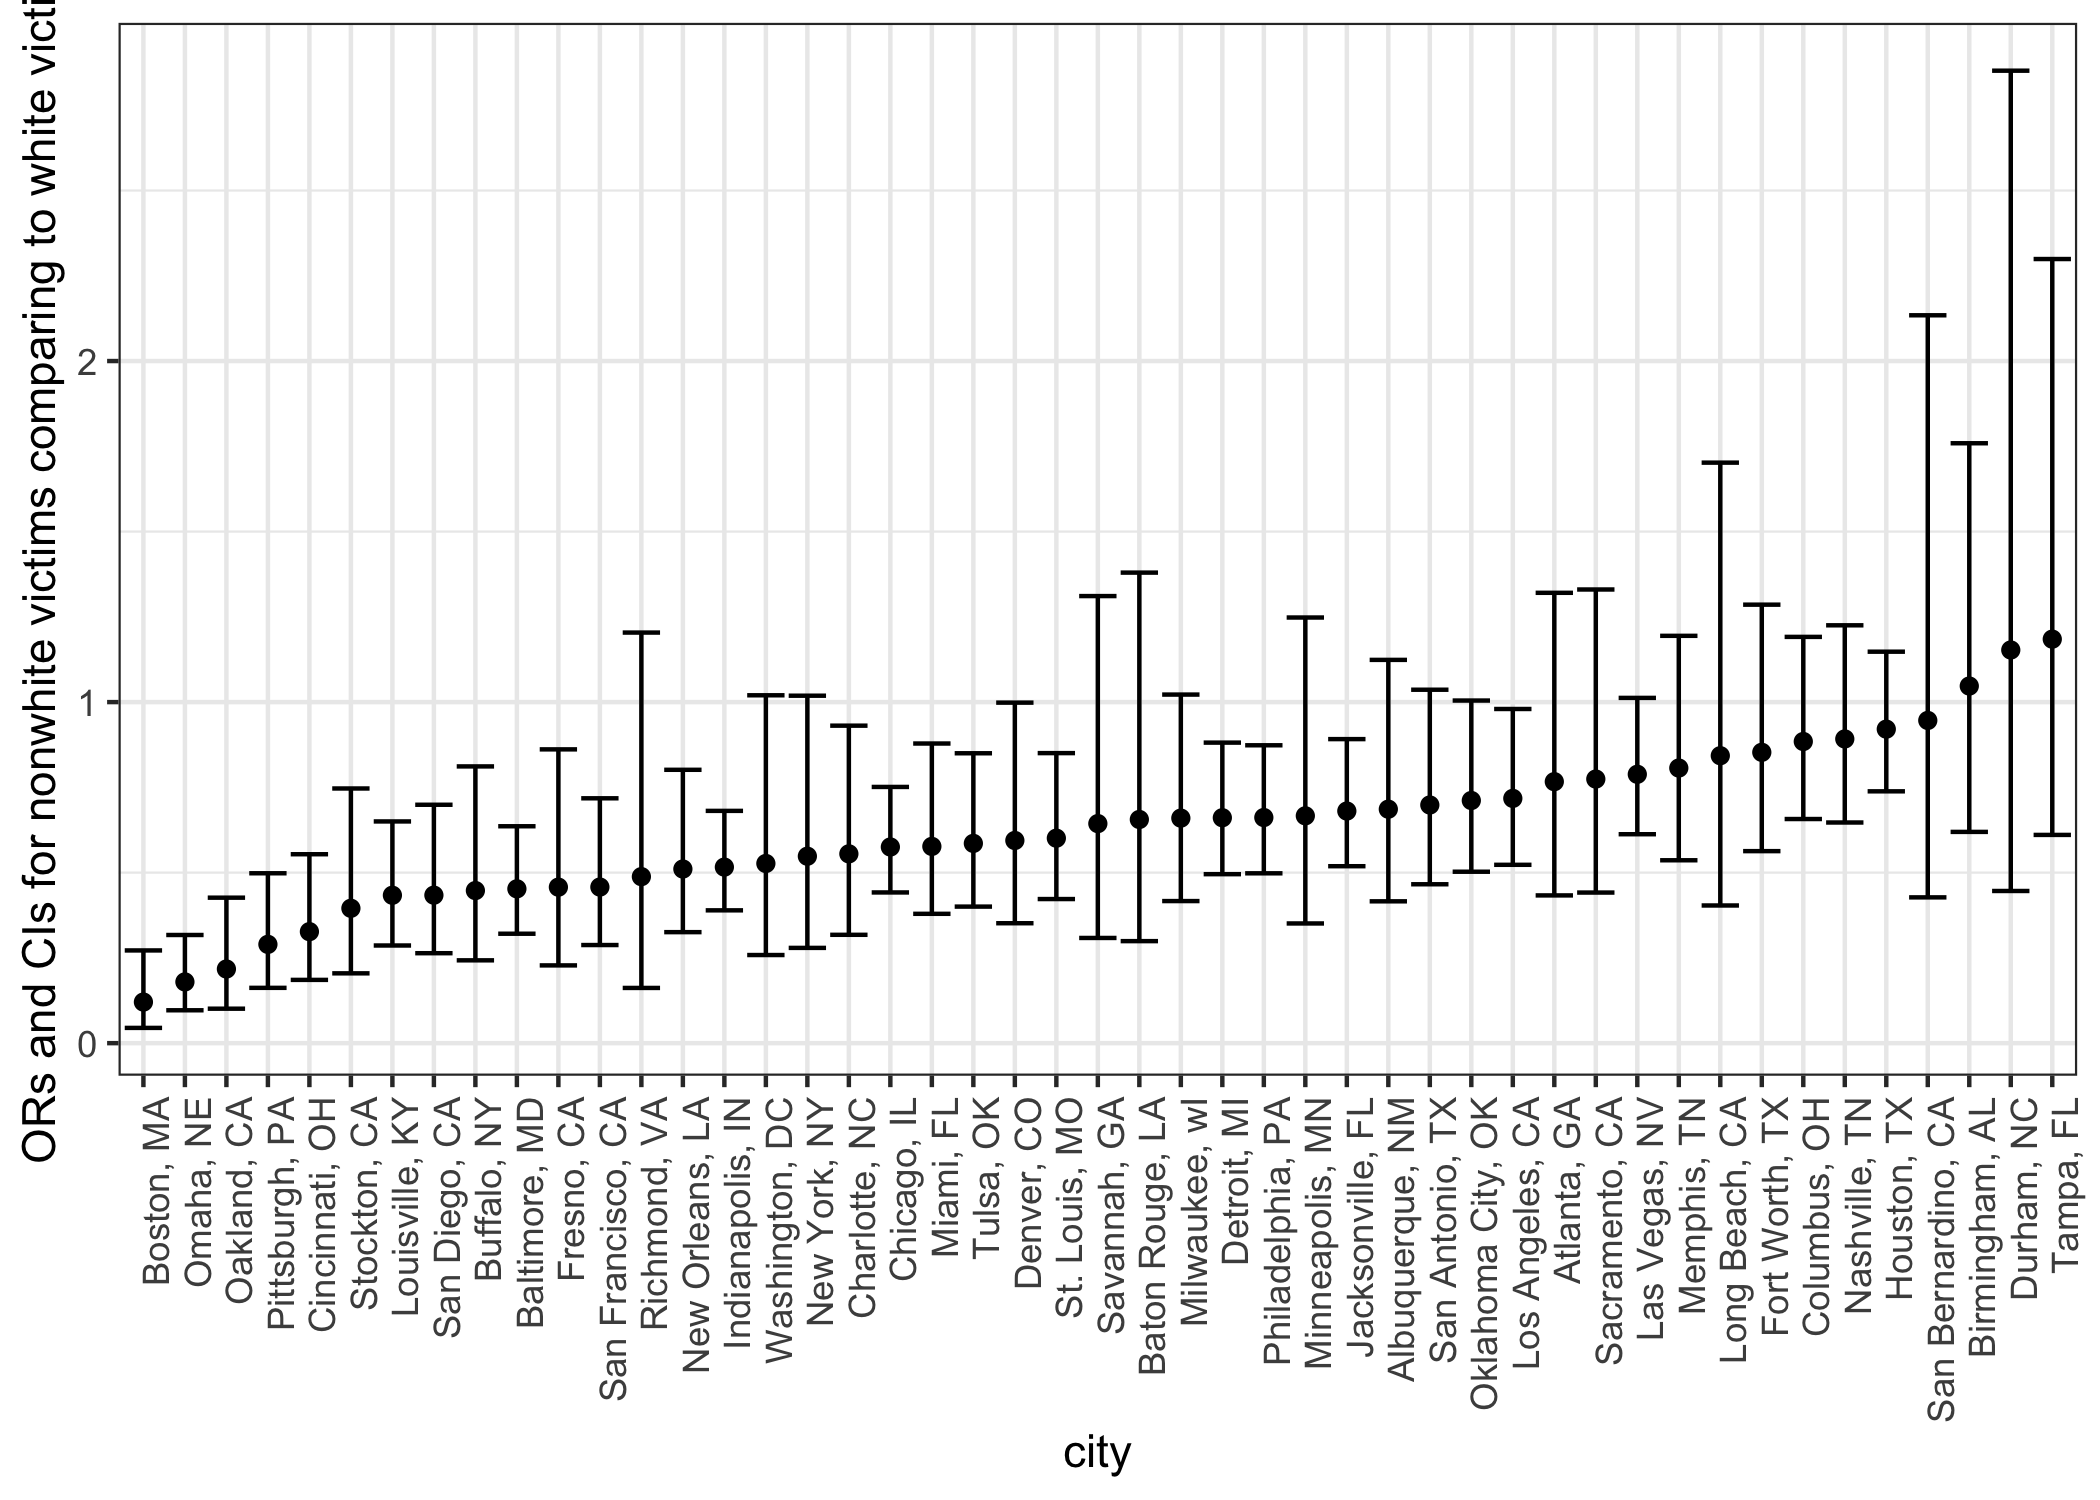
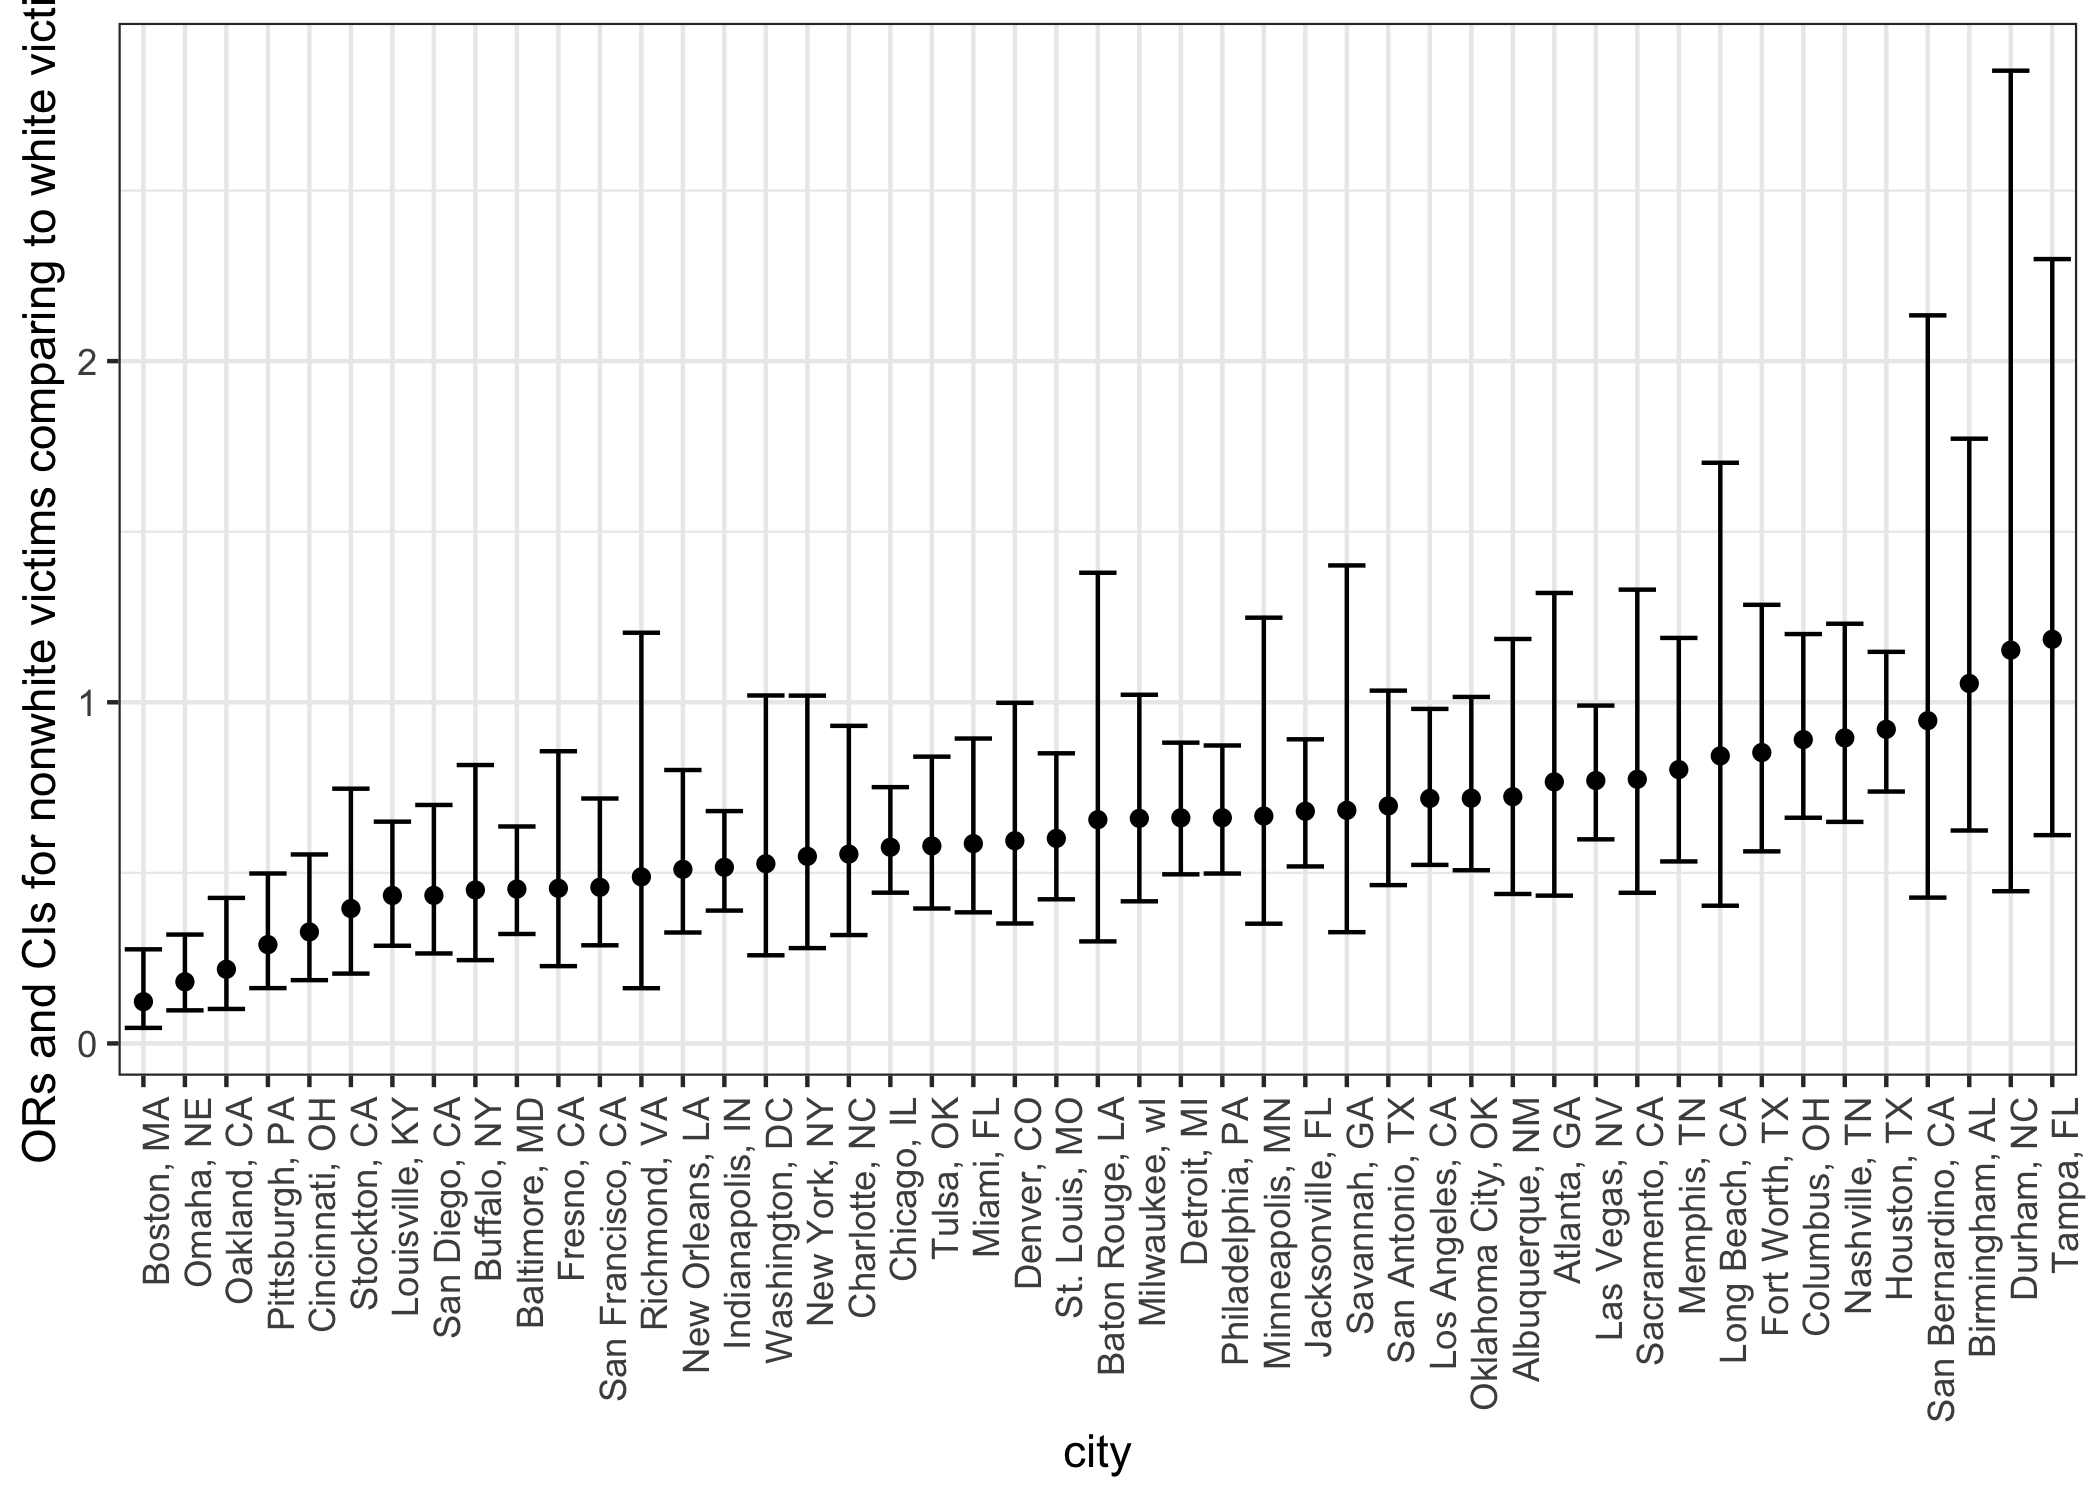
try to solve

diff --git a/p8105_hw6_gw2383.md b/p8105_hw6_gw2383.md
@@ -7,6 +7,9 @@ Guojing Wu
     -   [Tidy data](#tidy-data)
     -   [a logistic regression](#a-logistic-regression)
     -   [run `glm` for each of the cities](#run-glm-for-each-of-the-cities)
+-   [Problem 2](#problem-2)
+    -   [Load and clean the data](#load-and-clean-the-data)
+    -   [Propose a regression model for birthweight](#propose-a-regression-model-for-birthweight)
 
 Problem 1
 ---------
@@ -17,6 +20,7 @@ Problem 1
 homi_df = 
   read.csv("./data/problem1/homicide-data.csv") %>% 
   janitor::clean_names() %>% 
+  filter(victim_race != "Unknown") %>% # delete unknown races
   mutate(city_state = paste(city, state, sep = ", "), 
          solved = ifelse(disposition == "Closed by arrest", 1, 0), # a binary indicator
          victim_race = ifelse(victim_race == "White", "White", "Nonwhite"), 
@@ -46,8 +50,8 @@ fit_logistic %>%
 
 | term                 |         OR|   conf.low|  conf.high|  p.value|
 |:---------------------|----------:|----------:|----------:|--------:|
-| (Intercept)          |  2.2589119|  2.0901172|  2.4419631|        0|
-| victim\_raceNonwhite |  0.5816197|  0.5498223|  0.6151536|        0|
+| (Intercept)          |  2.2088105|  2.0425960|  2.3891523|        0|
+| victim\_raceNonwhite |  0.5848341|  0.5528333|  0.6185851|        0|
 
 ### run `glm` for each of the cities
 
@@ -73,16 +77,16 @@ nest_glm_res
     ## # A tibble: 94 x 6
     ##    city_state      term                   OR conf.low conf.high    p.value
     ##    <chr>           <chr>               <dbl>    <dbl>     <dbl>      <dbl>
-    ##  1 Albuquerque, NM (Intercept)         4.35     2.27      8.57  0.0000134 
-    ##  2 Albuquerque, NM victim_raceNonwhite 0.686    0.416     1.12  0.137     
+    ##  1 Albuquerque, NM (Intercept)         2.88     1.41      6.05  0.00434   
+    ##  2 Albuquerque, NM victim_raceNonwhite 0.723    0.438     1.19  0.201     
     ##  3 Atlanta, GA     (Intercept)         2.89     1.47      5.81  0.00236   
     ##  4 Atlanta, GA     victim_raceNonwhite 0.767    0.433     1.32  0.348     
     ##  5 Baltimore, MD   (Intercept)         2.85     1.84      4.47  0.00000378
     ##  6 Baltimore, MD   victim_raceNonwhite 0.453    0.321     0.636 0.00000533
     ##  7 Baton Rouge, LA (Intercept)         4.39     1.73     11.9   0.00252   
     ##  8 Baton Rouge, LA victim_raceNonwhite 0.656    0.299     1.38  0.275     
-    ##  9 Birmingham, AL  (Intercept)         1.85     0.941     3.66  0.0762    
-    ## 10 Birmingham, AL  victim_raceNonwhite 1.05     0.619     1.76  0.862     
+    ##  9 Birmingham, AL  (Intercept)         1.80     0.917     3.58  0.0891    
+    ## 10 Birmingham, AL  victim_raceNonwhite 1.06     0.624     1.77  0.840     
     ## # ... with 84 more rows
 
 Then create a plot that shows the estimated ORs and CIs for each city, and comment on the plot.
@@ -101,3 +105,130 @@ nest_glm_res %>%
 ![](p8105_hw6_gw2383_files/figure-markdown_github/unnamed-chunk-4-1.png)
 
 According to this plot, we can see that across every cities, non white victims tend to have more unsolved homicides comparing to white victims (with `Boston, MA` has the least extra unsolved and `Tampa, FL` has the most extra unsolved).
+
+Problem 2
+---------
+
+### Load and clean the data
+
+``` r
+bw_df = 
+  read.csv("./data/problem2/birthweight.csv") %>% 
+  as.tibble() %>% 
+  janitor::clean_names() %>% 
+  select(bwt, everything())
+```
+
+-   We first checked if there is `NA` in this dataset, and found out that there are 0 `NA`s.
+
+-   Second we check the collinearity:
+
+``` r
+bw_df %>% 
+  cor() %>% 
+  knitr::kable()
+```
+
+|          |         bwt|     babysex|       bhead|     blength|       delwt|     fincome|       frace|     gaweeks|     malform|    menarche|     mheight|      momage|       mrace|      parity|  pnumlbw|  pnumsga|       ppbmi|        ppwt|      smoken|      wtgain|
+|----------|-----------:|-----------:|-----------:|-----------:|-----------:|-----------:|-----------:|-----------:|-----------:|-----------:|-----------:|-----------:|-----------:|-----------:|--------:|--------:|-----------:|-----------:|-----------:|-----------:|
+| bwt      |   1.0000000|  -0.0866418|   0.7471068|   0.7434508|   0.2878893|   0.1545715|  -0.1793900|   0.4121833|   0.0013332|  -0.0244247|   0.1921632|   0.1357734|  -0.2076689|  -0.0083741|       NA|       NA|   0.0939457|   0.1828920|  -0.0756278|   0.2472526|
+| babysex  |  -0.0866418|   1.0000000|  -0.1688005|  -0.1052882|  -0.0164194|  -0.0226430|   0.0309277|   0.0202404|  -0.0180325|  -0.0062865|   0.0077359|  -0.0371782|   0.0360213|   0.0229980|       NA|       NA|  -0.0069938|  -0.0010070|  -0.0277543|  -0.0314619|
+| bhead    |   0.7471068|  -0.1688005|   1.0000000|   0.6304548|   0.2143707|   0.1156991|  -0.0960801|   0.3784565|   0.0029970|  -0.0030161|   0.1169482|   0.1080813|  -0.1101420|  -0.0200395|       NA|       NA|   0.0865565|   0.1366088|  -0.0539472|   0.1833337|
+| blength  |   0.7434508|  -0.1052882|   0.6304548|   1.0000000|   0.2291494|   0.0787451|  -0.1133571|   0.3592637|  -0.0090215|  -0.0210674|   0.1602598|   0.0801603|  -0.1324835|  -0.0324701|       NA|       NA|   0.0740158|   0.1486046|  -0.0656288|   0.1912238|
+| delwt    |   0.2878893|  -0.0164194|   0.2143707|   0.2291494|   1.0000000|   0.0349944|  -0.0648496|   0.1242785|   0.0120943|  -0.0859401|   0.4112576|   0.0740409|  -0.0922383|  -0.0047091|       NA|       NA|   0.7205041|   0.8709133|   0.0486127|   0.4247883|
+| fincome  |   0.1545715|  -0.0226430|   0.1156991|   0.0787451|   0.0349944|   1.0000000|  -0.2845921|   0.1066777|  -0.0068882|  -0.0035351|   0.1310186|   0.3231142|  -0.3048117|  -0.0259424|       NA|       NA|  -0.0201890|   0.0472526|   0.0779430|  -0.0160377|
+| frace    |  -0.1793900|   0.0309277|  -0.0960801|  -0.1133571|  -0.0648496|  -0.2845921|   1.0000000|  -0.1137273|  -0.0268645|   0.0212101|  -0.2008713|  -0.1869341|   0.8286055|   0.0011767|       NA|       NA|   0.0459474|  -0.0596140|  -0.1729336|  -0.0217712|
+| gaweeks  |   0.4121833|   0.0202404|   0.3784565|   0.3592637|   0.1242785|   0.1066777|  -0.1137273|   1.0000000|  -0.0050945|  -0.0004363|   0.0621377|   0.1139098|  -0.1315206|  -0.0796589|       NA|       NA|   0.0273359|   0.0564730|   0.0362117|   0.1481460|
+| malform  |   0.0013332|  -0.0180325|   0.0029970|  -0.0090215|   0.0120943|  -0.0068882|  -0.0268645|  -0.0050945|   1.0000000|  -0.0098673|  -0.0079746|   0.0177281|  -0.0276627|  -0.0013178|       NA|       NA|   0.0002545|  -0.0033799|   0.0331603|   0.0307670|
+| menarche |  -0.0244247|  -0.0062865|  -0.0030161|  -0.0210674|  -0.0859401|  -0.0035351|   0.0212101|  -0.0004363|  -0.0098673|   1.0000000|   0.0741156|   0.1760380|   0.0134218|   0.0194762|       NA|       NA|  -0.1218261|  -0.0704996|   0.0163746|  -0.0445137|
+| mheight  |   0.1921632|   0.0077359|   0.1169482|   0.1602598|   0.4112576|   0.1310186|  -0.2008713|   0.0621377|  -0.0079746|   0.0741156|   1.0000000|   0.1090480|  -0.2304254|  -0.0134237|       NA|       NA|  -0.1007377|   0.4266872|   0.0609835|   0.0484789|
+| momage   |   0.1357734|  -0.0371782|   0.1080813|   0.0801603|   0.0740409|   0.3231142|  -0.1869341|   0.1139098|   0.0177281|   0.1760380|   0.1090480|   1.0000000|  -0.2116000|   0.0519542|       NA|       NA|   0.0812451|   0.1295921|   0.0754544|  -0.0884876|
+| mrace    |  -0.2076689|   0.0360213|  -0.1101420|  -0.1324835|  -0.0922383|  -0.3048117|   0.8286055|  -0.1315206|  -0.0276627|   0.0134218|  -0.2304254|  -0.2116000|   1.0000000|   0.0021177|       NA|       NA|   0.0348432|  -0.0842482|  -0.1975179|  -0.0319667|
+| parity   |  -0.0083741|   0.0229980|  -0.0200395|  -0.0324701|  -0.0047091|  -0.0259424|   0.0011767|  -0.0796589|  -0.0013178|   0.0194762|  -0.0134237|   0.0519542|   0.0021177|   1.0000000|       NA|       NA|  -0.0059267|  -0.0112029|  -0.0055757|   0.0110819|
+| pnumlbw  |          NA|          NA|          NA|          NA|          NA|          NA|          NA|          NA|          NA|          NA|          NA|          NA|          NA|          NA|        1|       NA|          NA|          NA|          NA|          NA|
+| pnumsga  |          NA|          NA|          NA|          NA|          NA|          NA|          NA|          NA|          NA|          NA|          NA|          NA|          NA|          NA|       NA|        1|          NA|          NA|          NA|          NA|
+| ppbmi    |   0.0939457|  -0.0069938|   0.0865565|   0.0740158|   0.7205041|  -0.0201890|   0.0459474|   0.0273359|   0.0002545|  -0.1218261|  -0.1007377|   0.0812451|   0.0348432|  -0.0059267|       NA|       NA|   1.0000000|   0.8533168|   0.0070230|  -0.1099296|
+| ppwt     |   0.1828920|  -0.0010070|   0.1366088|   0.1486046|   0.8709133|   0.0472526|  -0.0596140|   0.0564730|  -0.0033799|  -0.0704996|   0.4266872|   0.1295921|  -0.0842482|  -0.0112029|       NA|       NA|   0.8533168|   1.0000000|   0.0388547|  -0.0749403|
+| smoken   |  -0.0756278|  -0.0277543|  -0.0539472|  -0.0656288|   0.0486127|   0.0779430|  -0.1729336|   0.0362117|   0.0331603|   0.0163746|   0.0609835|   0.0754544|  -0.1975179|  -0.0055757|       NA|       NA|   0.0070230|   0.0388547|   1.0000000|   0.0270658|
+| wtgain   |   0.2472526|  -0.0314619|   0.1833337|   0.1912238|   0.4247883|  -0.0160377|  -0.0217712|   0.1481460|   0.0307670|  -0.0445137|   0.0484789|  -0.0884876|  -0.0319667|   0.0110819|       NA|       NA|  -0.1099296|  -0.0749403|   0.0270658|   1.0000000|
+
+We saw that the standard deviation for `pnumlbw` and `pnumsga` is 0, so we checked these two variables and found out that their sum is 0 and 0, which suggest that all the values in these two columns are 0s, so we need to remove these two columns.
+
+We also saw that cor(`ppwt`, `delwt`), cor(`ppwt`, `ppbmi`) and cor(`frace`, `mrace`) are ≥0.8. In these case, we remove the `ppwt` and `frace` columns since mother race is more related to child and BMI is more representative than body weight. Then we change some variable to factors:
+
+``` r
+bw_df =
+  bw_df %>% 
+  select(-pnumlbw, -pnumsga, -ppwt, -frace) %>% 
+  mutate(babysex = factor(babysex),
+         malform = factor(malform),
+         mrace = factor(mrace, levels = c(1, 2, 3, 4, 8)))
+```
+
+### Propose a regression model for birthweight
+
+``` r
+bw_df %>% 
+  regsubsets(bwt ~ ., data = .) %>% 
+  summary()
+```
+
+    ## Warning in leaps.setup(x, y, wt = wt, nbest = nbest, nvmax = nvmax,
+    ## force.in = force.in, : 1 linear dependencies found
+
+    ## Reordering variables and trying again:
+
+    ## Subset selection object
+    ## Call: function_list[[i]](value)
+    ## 18 Variables  (and intercept)
+    ##          Forced in Forced out
+    ## babysex2     FALSE      FALSE
+    ## bhead        FALSE      FALSE
+    ## blength      FALSE      FALSE
+    ## delwt        FALSE      FALSE
+    ## fincome      FALSE      FALSE
+    ## gaweeks      FALSE      FALSE
+    ## malform1     FALSE      FALSE
+    ## menarche     FALSE      FALSE
+    ## mheight      FALSE      FALSE
+    ## momage       FALSE      FALSE
+    ## mrace2       FALSE      FALSE
+    ## mrace3       FALSE      FALSE
+    ## mrace4       FALSE      FALSE
+    ## parity       FALSE      FALSE
+    ## ppbmi        FALSE      FALSE
+    ## smoken       FALSE      FALSE
+    ## wtgain       FALSE      FALSE
+    ## mrace8       FALSE      FALSE
+    ## 1 subsets of each size up to 9
+    ## Selection Algorithm: exhaustive
+    ##          babysex2 bhead blength delwt fincome gaweeks malform1 menarche
+    ## 1  ( 1 ) " "      "*"   " "     " "   " "     " "     " "      " "     
+    ## 2  ( 1 ) " "      "*"   "*"     " "   " "     " "     " "      " "     
+    ## 3  ( 1 ) " "      "*"   "*"     " "   " "     " "     " "      " "     
+    ## 4  ( 1 ) " "      "*"   "*"     "*"   " "     " "     " "      " "     
+    ## 5  ( 1 ) " "      "*"   "*"     "*"   " "     "*"     " "      " "     
+    ## 6  ( 1 ) " "      "*"   "*"     "*"   " "     "*"     " "      " "     
+    ## 7  ( 1 ) " "      "*"   "*"     "*"   " "     "*"     " "      " "     
+    ## 8  ( 1 ) " "      "*"   "*"     "*"   " "     "*"     " "      " "     
+    ## 9  ( 1 ) "*"      "*"   "*"     "*"   " "     "*"     " "      " "     
+    ##          mheight momage mrace2 mrace3 mrace4 mrace8 parity ppbmi smoken
+    ## 1  ( 1 ) " "     " "    " "    " "    " "    " "    " "    " "   " "   
+    ## 2  ( 1 ) " "     " "    " "    " "    " "    " "    " "    " "   " "   
+    ## 3  ( 1 ) " "     " "    "*"    " "    " "    " "    " "    " "   " "   
+    ## 4  ( 1 ) " "     " "    "*"    " "    " "    " "    " "    " "   " "   
+    ## 5  ( 1 ) " "     " "    "*"    " "    " "    " "    " "    " "   " "   
+    ## 6  ( 1 ) " "     " "    "*"    " "    " "    " "    " "    " "   "*"   
+    ## 7  ( 1 ) " "     " "    "*"    " "    " "    " "    " "    "*"   "*"   
+    ## 8  ( 1 ) " "     " "    "*"    " "    "*"    " "    " "    "*"   "*"   
+    ## 9  ( 1 ) " "     " "    "*"    " "    "*"    " "    " "    "*"   "*"   
+    ##          wtgain
+    ## 1  ( 1 ) " "   
+    ## 2  ( 1 ) " "   
+    ## 3  ( 1 ) " "   
+    ## 4  ( 1 ) " "   
+    ## 5  ( 1 ) " "   
+    ## 6  ( 1 ) " "   
+    ## 7  ( 1 ) " "   
+    ## 8  ( 1 ) " "   
+    ## 9  ( 1 ) " "
